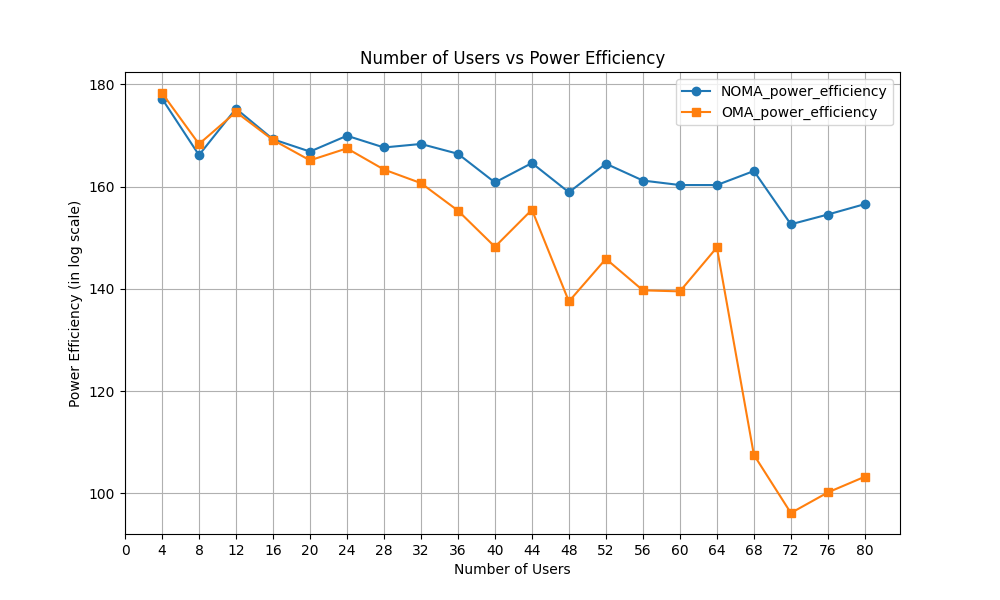
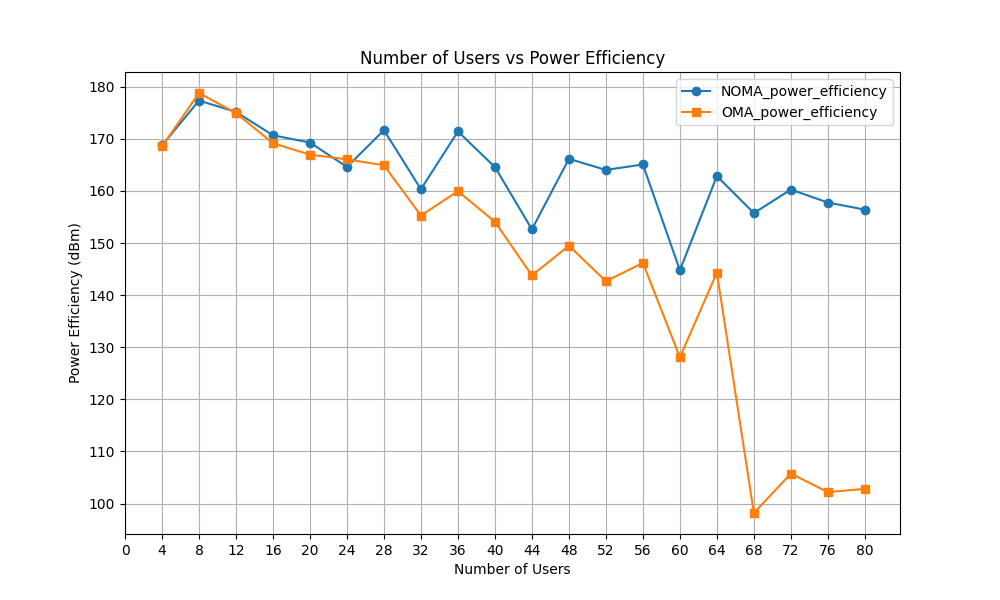
zsh script file added and units of graphs modified

diff --git a/plot_height_vs_power.py b/plot_height_vs_power.py
@@ -9,24 +9,22 @@ data = pd.read_csv(csv_file_name)
 plt.figure(figsize=(10, 6))
 plt.plot(data['height'], data['NOMA_total_power'], label='NOMA_total_power', marker='o')
 plt.plot(data['height'], data['OMA_total_power'], label='OMA_total_power', marker='s')
-plt.xlabel('UAV height')
+plt.xlabel('UAV Height (m)')
 plt.ylabel('Total Power (dBm)')
-plt.title('Height  vs Total Power')
+plt.title('Height vs Total Power')
 plt.legend()
 plt.gca().set_xticks(range(0, max(data['height']) + 1, 10)) # set vertical gridlines at multiples of 4
 plt.grid(which='both', axis='x')
 plt.savefig('Fig_Height_vs_Total_Power.png')
-plt.show()
 
 # Plot 2: Height vs NOMA_power_efficiency and OMA_power_efficiency
 plt.figure(figsize=(10, 6))
 plt.plot(data['height'], data['NOMA_power_efficiency'], label='NOMA_power_efficiency', marker='o')
 plt.plot(data['height'], data['OMA_power_efficiency'], label='OMA_power_efficiency', marker='s')
-plt.xlabel('Height')
+plt.xlabel('UAV Height (m)')
 plt.ylabel('Power Efficiency (dBm)')
 plt.title('Height vs Power Efficiency')
 plt.legend()
 plt.gca().set_xticks(range(0, max(data['height']) + 1, 10)) # set vertical gridlines at multiples of 4
 plt.grid(which='both', axis='x')
 plt.savefig('Fig_Height_vs_Power_Efficiency.png')
-plt.show()

diff --git a/plot_user_vs_power.py b/plot_user_vs_power.py
@@ -17,18 +17,17 @@ plt.gca().set_xticks(range(0, max(data['number_of_users']) + 1, 4)) # set vertic
 plt.grid(which='both', axis='x')
 plt.grid(True)
 plt.savefig('Fig_Users_vs_TotalPower.png')
-plt.show()
 
 # Plot 2: Number of Users vs NOMA_power_efficiency and OMA_power_efficiency
 plt.figure(figsize=(10, 6))
 plt.plot(data['number_of_users'], data['NOMA_power_efficiency'], label='NOMA_power_efficiency', marker='o')
 plt.plot(data['number_of_users'], data['OMA_power_efficiency'], label='OMA_power_efficiency', marker='s')
 plt.xlabel('Number of Users')
-plt.ylabel('Power Efficiency (in log scale)')
+plt.ylabel('Power Efficiency (dBm)')
 plt.title('Number of Users vs Power Efficiency')
 plt.legend()
 plt.gca().set_xticks(range(0, max(data['number_of_users']) + 1, 4)) # set vertical gridlines at multiples of 4
 plt.grid(which='both', axis='x')
 plt.grid(True)
 plt.savefig('Fig_Users_vs_PowerEfficiency.png')
-plt.show()
+

diff --git a/plot_height_vs_channelgain.py b/plot_height_vs_channelgain.py
@@ -29,10 +29,9 @@ for i in range(num_users):
     plt.bar(indices + i * bar_width, data[i], bar_width, label=f'User {i+1}')
 
 # Set the labels and title
-plt.xlabel('Height')
+plt.xlabel('UAV Height (m)')
 plt.ylabel('Value of h')
 plt.title('Values of h for Each Height and User')
 plt.xticks(indices + bar_width * (num_users - 1) / 2, heights)
 plt.legend()
 plt.savefig("Fig_Height_vs_Channel_Gain.png")
-plt.show()

diff --git a/plot_height_vs_avg_channelgain.py b/plot_height_vs_avg_channelgain.py
@@ -15,8 +15,7 @@ with open('data_height_vs_channelGain.csv', 'r') as file:
 
 # Plot the bar graph
 plt.plot(heights, values)
-plt.xlabel('Height')
+plt.xlabel('UAV Height (m)')
 plt.ylabel('Average Value of Channel Gain (dBm)')
 plt.title('Height vs Average Channel Gain')
 plt.savefig("Fig_Height_vs_Average_Channel_Gain.png")
-plt.show()
